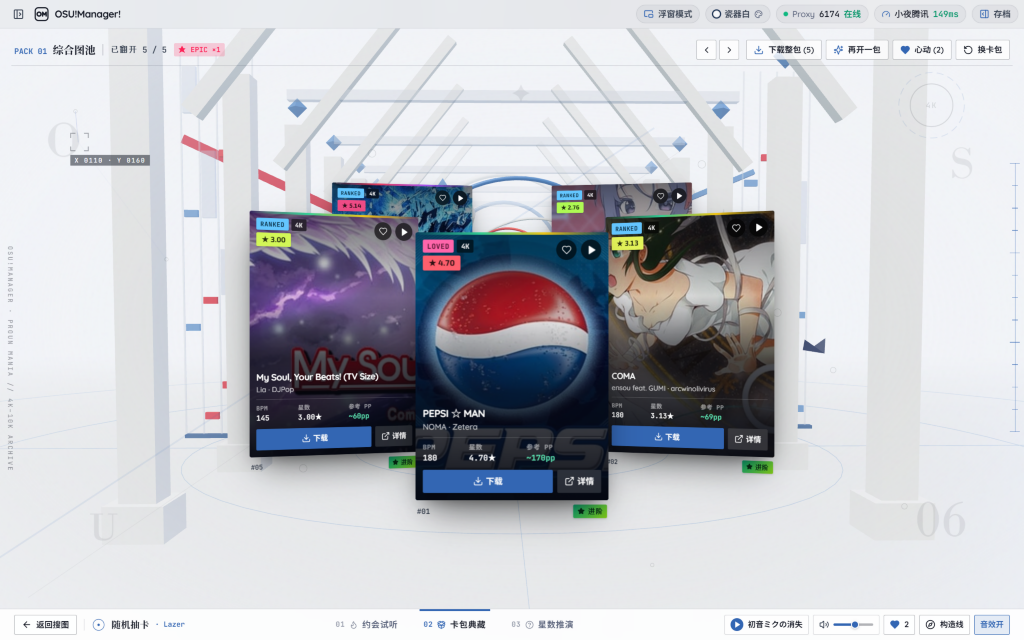
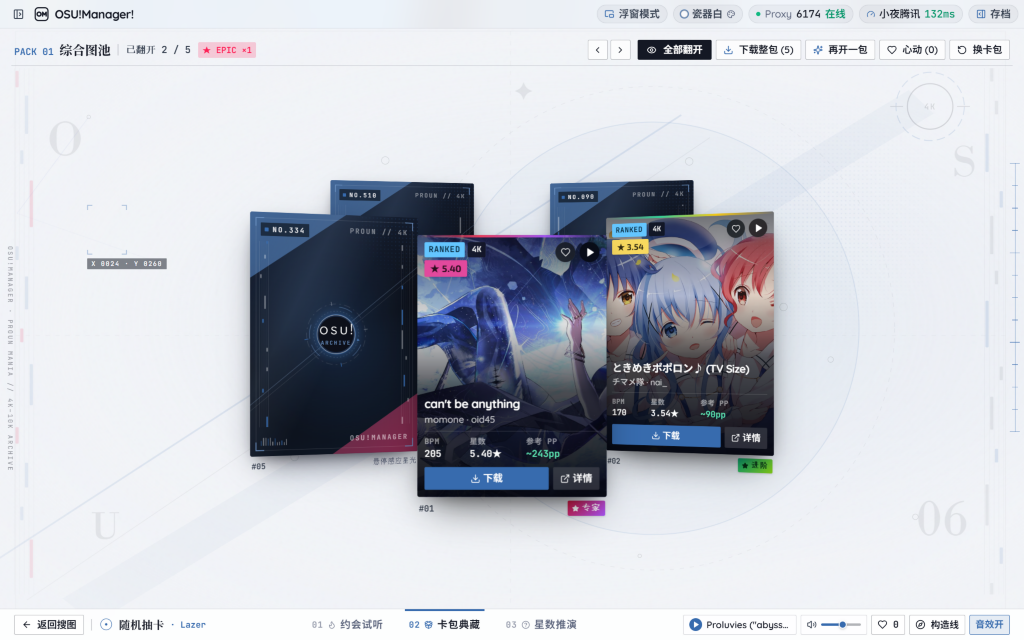
docs: update README, AGENT, CHANGELOG, DEVLOG and v1.16.0 screenshots

diff --git a/README.md b/README.md
@@ -98,18 +98,18 @@
     <td width="50%" align="center" valign="top">
       <a href="docs/screenshots/10-gacha-pack.png"><img src="docs/screenshots/10-gacha-pack.png" alt="Random Card Draw — 3D Circular Ring Pack Opening Mode" width="100%" /></a>
       <br />
-      <strong>10 · 随机抽卡 · 02 卡包典藏（PROUN 构成主义圣堂 + 4K 音符下落 + 3D 圆环）</strong>
+      <strong>10 · 随机抽卡 · 02 卡包典藏（纯 2D PROUN 平面构成 + 4K 下落轨道 + 高清 3D 圆环）</strong>
       <br />
-      <sub>PROUN × osu!mania 4K sanctum, numbered pools (<code>01–07</code>), 3D card ring &amp; hover star glows</sub>
+      <sub>Pure 2D PROUN × osu!mania 4K poster stage (zero WebGL), HD covers &amp; Constructivist kinetic backs</sub>
     </td>
   </tr>
   <tr>
     <td width="50%" align="center" valign="top">
       <a href="docs/screenshots/11-gacha-dating.png"><img src="docs/screenshots/11-gacha-dating.png" alt="Random Card Draw — Default Dating Swipe Mode with Right-Fanned Preview Stack" width="100%" /></a>
       <br />
-      <strong>11 · 随机抽卡 · 01 约会试听（默认模式 · 多分组目标归档与放大卡牌）</strong>
+      <strong>11 · 随机抽卡 · 01 约会试听（默认模式 · 高清原画大图与多分组目标归档）</strong>
       <br />
-      <sub>Default tab, enlarged cards fanned right, direct swipe-to-group targeting &amp; multi-group Liked drawer</sub>
+      <sub>Default tab, HD fullsize artwork fanned right, direct group swipe targeting &amp; Constructivist foil backs</sub>
     </td>
     <td width="50%" align="center" valign="top">
       <a href="docs/screenshots/12-gacha-guess.png"><img src="docs/screenshots/12-gacha-guess.png" alt="Random Card Draw — Obsidian Dark English Guess SR Mode with NM/HT/DT and MA Ratio" width="100%" /></a>
@@ -123,16 +123,16 @@
     <td width="50%" align="center" valign="top">
       <a href="docs/screenshots/13-gacha-altar.png"><img src="docs/screenshots/13-gacha-altar.png" alt="Random Card Draw — Unified Global-Theme Collector Sleeve and Collapsible Pack Dossier" width="100%" /></a>
       <br />
-      <strong>13 · 随机抽卡 · 包豪斯斜切收藏卡包（独立 07 条件自选池弹窗 + 后台秒开预取）</strong>
+      <strong>13 · 随机抽卡 · 炉石风拖拽开包桌台与唤醒祭坛（物理握持惯性 + 磁吸高亮）</strong>
       <br />
-      <sub>Bauhaus diagonal-slash theme-synced pack sleeve, editable Pool <code>07</code> filters &amp; background prefetch</sub>
+      <sub>Hearthstone-style left reserve pack stack &amp; magnetically awakening Opening Altar drop well</sub>
     </td>
     <td width="50%" align="center" valign="top">
       <a href="docs/screenshots/14-gacha-inspector.png"><img src="docs/screenshots/14-gacha-inspector.png" alt="Random Card Draw — 360° 3D Collector Slab Inspector Modal" width="100%" /></a>
       <br />
-      <strong>14 · 随机抽卡 · 360° 3D 立体检视（14px PROUN 铭文金属脊 + 主题同调星空卡背）</strong>
+      <strong>14 · 随机抽卡 · 360° 3D 立体检视（20px 矢量金属铭文脊 + 真 3D Z 轴变焦 + 动态卡背）</strong>
       <br />
-      <sub>360° drag/zoom slab inspector, <code>14px</code> PROUN metallic engraved spine &amp; theme-tinted celestial card back</sub>
+      <sub>360° Z-dolly zoom, crisp <code>20px</code> vector titanium spines, HD <code>fullsize.jpg</code> cover &amp; kinetic back</sub>
     </td>
   </tr>
 </table>
@@ -189,11 +189,12 @@
    - 覆盖搜图选歌、详情/PP 计算器、Mania 预览器、3D Book 档案库、OSU! 音乐台、游戏内浮窗、Electron 系统托盘菜单与后端错误/镜像描述的全量中英双语体验。
    - 可在「设置 → 分区 3」或新手引导右上角切换 `简体中文` / `English`（切换立即预览，点保存持久化至 `config.json`，取消/Esc 自动回滚）；右上角测速状态与提示文案严格跟随用户实际配置的 `proxyPort`（不再固定写死 `6174`）与直连/代理模式动态显示。
 
-10. **随机抽卡工作室（`v1.15.0` — PROUN × osu!mania 圣堂 · 14px 金属铭文脊 · 秒开预取 · 多分组心动曲库）**
-   - 在浏览模式 `Lazer` 按钮右侧提供「随机抽卡」入口，打开后**自动收起主左侧栏与存档栏**；模式切换栏下移至纤细的**底部导航 Dock**，**默认直接进入 `01 约会试听`**（顺序为 `01 约会试听 · 02 卡包典藏 · 03 星数推演`）。所有定格构造转场动画沉底于 `z-[4]` 背景层，不再浮压界面元素。
-   - **PROUN × osu!mania 圣堂舞台与主题同调星图卡背**：Three.js 圣堂舞台融合普劳恩斜向钢梁、悬浮几何圆盘、左右侧 `osu!mania` 4K 下落短键/长条轨道与中央呼吸 Hit Circle / Approach Ring（支持 `B` 键切换构造线框）；派蒙星空卡背采用中性黑炭底色高比例融合全局主题 `--t-osu`，随瓷器白 / 樱雾浅粉 / 松影暗绿等主题呈现深色同调星空质感。
-   - **01 约会试听与多分组持久心动曲库**：放大卡牌并在右侧扇形叠放预报下两张卡片，顶部支持直接切换滑动归属的目标分组（如「默认心动」或自建「高难练习」分组）；全模式收藏持久保存至 `data/gacha-collections.json`，右侧多分组心动抽屉支持**新建、重命名、清空、删除分组、单曲多分组勾选分配与按组一键批量下载**。
-   - **02 卡包典藏、`07 条件自选池` 与 360° 铭文金属脊检视**：精简去除了「开包提示语」等冗余文案，采用包豪斯斜切造型卡包与 `01 综合图池`–`07 条件自选池` 编号体系（含独立「07 条件自选池」弹窗，可同步当前搜图条件或一键导入 Filter 存档）；随视口尺寸等比放大卡包与 3D 圆环阵列并内置工作台后台预取 + 后端并发探针加速秒开；点击已翻开卡牌进入 **360° 3D 立体检视**，配备 **`14px` PROUN 工业铭文金属侧脊**（星级霓虹中缝 + 纵向 `OSU! // ★SR // BPM // #serial` 刻印）、`F` 翻面、`R` 复位与收藏快捷按钮。
+10. **随机抽卡工作室（`v1.16.0` — 纯 2D PROUN 平面构成舞台 · 炉石拖拽开包 · 原画高清封面 · 动态构成主义卡背）**
+   - 在浏览模式 `Lazer` 按钮右侧提供「随机抽卡」入口，打开后**自动收起主左侧栏与存档栏**；模式切换栏下移至纤细的**底部导航 Dock**，**默认直接进入 `01 约会试听`**（顺序为 `01 约会试听 · 02 卡包典藏 · 03 星数推演`）。
+   - **纯 2D PROUN × osu!mania 4K 平面构成背景（零 WebGL 开销）**：以高精度 SVG 构成主义海报几何与远边距双侧 `osu!mania` 4K 动态下落音符带替代 3D 模型渲染，随约会 / 卡包 / 推演三模式与全局主题切换构图（`B` 键切换平面辅助构造线），兼顾视觉锐度与轻量化性能。
+   - **动态构成主义 × osu! 动效卡背（全新替换）**：告别星空样式，采用融合全局主题 `--t-osu` 的深炭金属 Foil 质感卡背，集成包豪斯斜切角、流光扫掠（Specular Foil Sweep）、双侧实时滚动的 `osu!mania` 4K 窄轨音符条以及中央双圈旋动游标尺 + 呼吸缩圈 `osu!` Approach Ring。
+   - **炉石传说风拖拽开包 + 秒开预取 + 高清卡片 & 20px 矢量金属脊**：左侧卡包叠放可按住拖拽并随速度产生 3D 倾斜，拖向右侧「Opening Altar」祭坛时逐级点亮光晕与瞄准锁框，松手磁吸炸开 3D 圆环（拖出松手平滑回弹，亦可点击或拉动顶部虚线封条）；卡片封面通过 `/api/media/cover/:id?hd=1` 代理缓存 `fullsize.jpg` 原画大图，配合 360° 立体检视器的真 3D `translateZ` 推进变焦与 `20px` 高精度 `<svg>` 钛金属雕刻侧脊（含纵向 `OSU! // ★SR // BPM // #serial`），彻底消除放大糊边。
+   - **多分组持久心动曲库与 `07 条件自选池`**：全模式收藏持久保存至 `data/gacha-collections.json`，支持新建/重命名/清空/删除分组、单曲多分组勾选分配、按组批量下载及约会顶部目标组直选；`07 条件自选池` 配备独立弹窗支持自主配池、同步主搜图条件与导入 Filter 存档。
    - **03 星数推演**：移除卡片 `详情` 入口严格防止窥见真实星数，提供 24 种严格基于 `NM (1.0x)` / `HT (0.75x)` / `DT (1.5x)` 倍率与**黄彩比（`MA Ratio`）**/ Miss / `EZ` / `Classic` 组合的情景线索与闪电连击徽标。
 
 ### 快速开始
@@ -270,12 +271,12 @@ No osu! login or session cookie is required. It brings together multi-mirror bea
 - **Full ZH / EN Bilingual Switcher & Dynamic Proxy Diagnostics**
   - Complete Simplified Chinese & English localization across Browse, Beatmap Detail & PP Calculator, Mania Previewer, 3D Book Archive, OSU! AUDIO Music Station, Acrylic Overlay, Electron Tray/Hotkeys, and backend mirror/status responses.
   - Switch live via **Settings → Section 3 (`简体中文 | English`)** or the onboarding header pill (persisted in `config.json`, safely rolls back on Cancel/Esc). Top-bar latency checks and toast notifications dynamically reflect your configured `proxyPort` or `Direct` mode.
-- **Random Card Draw Studio (`v1.15.0` — PROUN × osu!mania Sanctum, 14px Metallic Spine, Fast Prefetch & Grouped Likes)**
+- **Random Card Draw Studio (`v1.16.0` — Pure 2D PROUN Graphic Stage, Hearthstone Drag-to-Altar, HD Covers & Kinetic Backs)**
   - Accessible beside the `Lazer` view button in Browse mode; **automatically collapses both sidebars** on launch and exclusively draws non-local beatmapsets through clean numbered card pools (`01 All-Pool Mix` – `07 Custom Filter Pool`) and tier labels (`Standard` – `Apex 8★+`).
-  - **PROUN × osu!mania 4K Sanctum & Theme-Synced Card Back**: The open Three.js backdrop blends Constructivist diagonal girders and floating discs with flanking `osu!mania` 4K falling short/LN pillars and a breathing central Hit Circle + Approach Ring (`B` key toggles blueprint wireframe). The Paimon starfield card back mixes neutral charcoal with `--t-osu` so themes like Sakura pink and Forest emerald tint the deep starry cloak organically.
-  - **01 Dating Swipe & Persistent Multi-Group Collections**: Enlarged right-fanned card deck with instant audio playback and a direct header target-group selector for swiped likes. Favorites persist server-side in `data/gacha-collections.json` with a collapsible **Multi-Group Liked Drawer** supporting group create/rename/clear/delete, per-song group assignment checkboxes, and one-click group batch download.
-  - **02 Pack Opening, Custom Pool `07` Modal & 360° Metallic Spine**: Features enlarged viewport-adaptive Bauhaus diagonal-slash pack sleeves and 3D circular rings with redundant helper hints removed, Studio-level Pool `01` pre-warming plus parallel backend fallback probes for rapid opening, and an independent **Pool `07` Custom Filter Modal** (with Browse filter sync & Filter Archive import). Clicking any revealed card opens the **360° 3D Slab Inspector** sporting **`14px` brushed PROUN metallic side spines** with engraved `OSU! // ★SR // BPM // #serial` edges, star-rarity seam glow, `F` flip, `R` reset, and favorite toggle.
-  - **03 Guess SR**: Keeps `Details` locked so stars stay hidden, serves 24 scenarios strictly using **`NM (1.0x)` / `HT (0.75x)` / `DT (1.5x)`** rates with **MA Ratio**, misses, and mod clues, plus a crisp Zap streak counter on the open Three.js canvas.
+  - **Zero-WebGL 2D Flat PROUN × osu!mania Stage**: Replaces Three.js 3D meshes with a crisp flat vector editorial backdrop plus far-margin 2D `osu!mania` 4K scrolling rhythm lanes (adapting per tab and `B` blueprint mode) for sharper lines and minimal GPU overhead.
+  - **Dynamic Constructivist × osu! Kinetic Card Back**: Replaces starry backdrops with a theme-infused (`--t-osu`) dark foil plate featuring Bauhaus diagonal cuts, drifting metallic sheen, twin live-scrolling 4K margin strips, counter-rotating vernier calipers, and a rhythmic contracting `osu!` Approach Ring.
+  - **Hearthstone Draggable Pack Table, HD Artwork & 20px Vector Spines**: Grab booster packs from a physical left reserve stack with velocity-driven 3D banking and drop them into a magnetically awakening right **Opening Altar** (outside drops smoothly spring back; tear seam drag & direct clicks remain supported). Cards fetch full-res `fullsize.jpg` covers via `/api/media/cover/:id?hd=1`, while the **360° Inspector** switches to true-3D `translateZ` zoom and razor-sharp **`20px` vector `<svg>` engraved titanium spines** (`OSU! // ★SR // BPM // #serial`), alongside `data/gacha-collections.json` multi-group favorites & the Pool `07` Custom Filter Modal.
+  - **03 Guess SR**: Keeps `Details` locked so stars stay hidden, serves 24 scenarios strictly using **`NM (1.0x)` / `HT (0.75x)` / `DT (1.5x)`** rates with **MA Ratio**, misses, and mod clues, plus a crisp Zap streak counter on the open 2D graphic canvas.
 
 ### Quick Start
 

diff --git a/AGENT.md b/AGENT.md
@@ -60,7 +60,7 @@
 | `server/library.ts` | Stable `Songs` 扫描、Lazer `client.realm`/`online.db`/`files` 哈希扫描缓存、进程检测（含 `stableExeExists` / `lazerExeExists`）、双端差异比对 |
 | `server/realmReader.ts` | 零原生依赖只读 Realm v24 (`T-DB`) 二进制解析器（带文件锁临时拷贝回退），读取 Lazer `client.realm` 谱面、难度、元数据、文件映射与游玩成绩 |
 | `server/localLibrary.ts` | 双端本地曲库与成绩聚合器（融合 `osu!.db` / `Songs/` / `scores.db` 与 `client.realm` / `files/`），提供成绩去重、Mania PP 估算、延迟 `.osu` 背景提取与 SVG 回退、`.osu` 红线/Kiai/密度节奏解析及音频流输出 |
-| `server/media.ts` | 封面图与 MP3 音频试听代理 + 本地磁盘 LRU 裁剪缓存 |
+| `server/media.ts` | 封面图（支持 `?hd=1` 原画级 `fullsize.jpg` 优先拉取与独立 `cache/covers-hd/` 磁盘 LRU 缓存）与 MP3 音频试听代理 |
 | `server/preview.ts` | Mania `.osu` 解析（红线 BPM + 绿线 SV + Barline + NPS 密度）、本地/ZIP/`cache/osz` 音源查找、`206 Range` 音频流与背景图输出 |
 | `server/skins.ts` | 扫描 `D:\OSU\Skins` 与 `osu!.<user>.cfg` 激活皮肤、解析 `[Mania]` `skin.ini`、内置 3 套皮肤、PerCy 超长 LN PNG 无损前 2048 行扫描线裁切 (`cropPngTopRows`) |
 
@@ -130,17 +130,16 @@
 | `src/components/OnboardingModal.tsx` | 首次安装 6 步交互式环境配置与新手引导向导（右上角含 `中文 / EN` 快速切换、调用 `/api/config/detect-env` 探测多盘符客户端路径与本机代理端口，支持代理模式/端口预设、下载策略、实时主题/字号预览、配置摘要保存及防输入框箭头误触） |
 | `src/components/SelectField.tsx` | 统一下拉封装（支持 `<optgroup>` 嵌套匹配，解决 Chromium 原生箭头重叠问题） |
 | `src/components/gacha/gachaSketch.ts` | 参考 `Funkierry/the-masses-travels` 移植的确定性手绘 SVG 几何原语（过头抖动星环 `ring`、拱曲延展标尺 `rule`、毛笔 `brush`、光刃 `blade`、裁切角 `crops` 与星座连接） |
-| `src/components/gacha/GachaSanctumWorld.ts` | Three.js PROUN × `osu!mania` 圣堂建筑舞台控制器（响应全局 `--t-canvas` / `--t-osu` 动态换色、普劳恩斜向钢梁与悬浮圆盘、对称左右侧 4K 下落短键/长条音符列、中央呼吸 Hit Circle 与 Approach Ring、`Blueprint` 线框与炸裂脉冲） |
-| `src/components/gacha/GachaAtmosphere.tsx` | 全屏氛围层（Three.js 挂载、全局主题色同步、斜向构图法则线与右上角 `4K` 圆环水印、指针连线点阵、左侧竖排注记与右侧标尺、脱离目标即时复位且避开底栏的 Reticle 准星、`z-[4]` 底层定格构造脉冲与 `<ScrambleText>` 解码） |
-| `src/components/gacha/GachaPackPlate.tsx` | 包豪斯斜切构成主义卡包封套视差手绘图版（深红斜梁、4K 双侧虚线轨、全球统一 `--ga-cobalt` / `--ga-ink` 主题变色圆盘与 `POOL 01–07` 编号印记） |
+| `src/components/gacha/GachaAtmosphere.tsx` | 全屏纯 2D 平面构成氛围层（零 WebGL：SVG 构成主义海报几何、分模式构图与 far-margin `osu!mania` 4K 下落轨道、`B` 键平面辅助构造线、2D Canvas 连线点阵、左侧竖排注记与右侧标尺、Reticle 准星、`z-[4]` 底层定格脉冲与 `<ScrambleText>`） |
+| `src/components/gacha/GachaPackPlate.tsx` | 炉石开包祭坛 Drop Well 多层平面手绘图版（居中注册环与虚线卡包落点框，随卡包拖近动态提升光晕半径/缩放与高亮瞄准框） |
 | `src/components/gacha/GachaStudio.tsx` | 随机抽卡工作室总控界面（纤细底部导航栏 `01 约会试听 / 02 卡包典藏 / 03 星数推演`、默认 `dating`、后台预温 Pool `01` 缓存池、`data/gacha-collections.json` 多分组收藏状态调度、Pool `07` 自选规则状态、`B` 构造线热键与猜星详情隔离） |
-| `src/components/gacha/GachaPackMode.tsx` | 卡包典藏模式（去除冗余辅助文案、按容器宽高自适配放大的包豪斯斜切卡包与 `1–20` 张 3D 椭圆圆环舞台、卡池 `01–07` 选择与独立 Pool `07` 规则编辑入口、复用工作室预取与并发态接入实现秒开及 360° 检视） |
-| `src/components/gacha/GachaCardInspectorModal.tsx` | Portal 挂载至 `document.body` (`z-[48]`) 的 360° 3D 立体卡片检视弹窗（`data-dark="true"` 独立暗色画廊背板、放大卡身、鼠标惯性 360° yaw/pitch 拖拽、滚轮缩放、`14px` PROUN 工业拉丝金属脊与纵向 `OSU! // ★SR // BPM // #serial` 刻印及星级中缝霓虹、收藏红心、`F` 翻转、`R` 复位、`←/→` 切卡） |
+| `src/components/gacha/GachaPackMode.tsx` | 卡包典藏模式（炉石风左侧储备卡包叠放 + 物理速度倾角拖拽投入右侧「Opening Altar」磁吸开包与拖出平滑回弹、支持虚线封条或点击开启、`01–07` 卡池选择与独立 Pool `07` 弹窗、Studio 预取秒开及 `<=1.0` 缩放高清 3D 圆环） |
+| `src/components/gacha/GachaCardInspectorModal.tsx` | Portal 挂载至 `document.body` (`z-[48]`) 的 360° 3D 立体卡片检视弹窗（真 3D `translateZ` 推进变焦无糊边、鼠标惯性 360° 旋转、`20px` 高精度矢量 `<svg>` 钛金属雕刻侧脊与 `OSU! // ★SR // BPM // #serial` 铭文、收藏红心、`F` 翻转至动态构成主义卡背、`R` 复位、`←/→` 切卡） |
 | `src/components/gacha/GachaDatingMode.tsx` | 约会试听模式（默认模式：通透无遮罩舞台、放大卡牌尺寸、右侧下方扇形叠放预告下两张卡片、顶部滑动目标分组选择器与切卡自动试听） |
-| `src/components/gacha/GachaCustomFilterModal.tsx` | **新增**：Portal 弹窗形式 `POOL 07`「条件自选池」独立筛选配置面板（支持关键词/Keys/状态/SR/BPM/LN%/时长编辑，以及一键同步主搜图条件或导入 Filter 存档） |
-| `src/components/gacha/GachaLikedDrawer.tsx` | **新增**：默认收起的右侧多分组持久化「心动曲库」抽屉（支持新建、内联重命名、清空、安全删除分组、单曲多分组勾选分配、切换滑动目标组与按组一键批量下载） |
-| `src/components/gacha/BeatmapGachaCard.tsx` | 无边框 `3px` 收藏级 3D 正反谱面卡（悬停卡背星光光晕与裁切角、翻牌粒子+光刃特效、右下角全局收藏红心按钮、`--ga-cobalt`/`--t-osu` 统一主按钮色与可选 `onInspect` 360° 检视） |
-| `src/components/gacha/PaimonStarfieldBack.tsx` | 派蒙星空斗篷卡背（纯中性暗炭底高比例 `color-mix` 融合全局 `--t-osu` 与纯 CSS 中央星辉光晕，叠加 `gachaSketch` 双重套印手绘星盘与极简细体 `osu! / 4K // ARCHIVE` 标识） |
+| `src/components/gacha/GachaCustomFilterModal.tsx` | Portal 弹窗形式 `POOL 07`「条件自选池」独立筛选配置面板（支持关键词/Keys/状态/SR/BPM/LN%/时长编辑，以及一键同步主搜图条件或导入 Filter 存档） |
+| `src/components/gacha/GachaLikedDrawer.tsx` | 默认收起的右侧多分组持久化「心动曲库」抽屉（支持新建、内联重命名、清空、安全删除分组、单曲多分组勾选分配、切换滑动目标组与按组一键批量下载） |
+| `src/components/gacha/BeatmapGachaCard.tsx` | 无边框 `3px` 收藏级 3D 正反谱面卡（默认请求 `?hd=1` 原画高清封面含失败自动回退、正反面 `translateZ(1px)` 防 Chromium 剔除错乱、翻牌粒子+光刃、全局收藏红心与可选 `onInspect` 360° 检视） |
+| `src/components/gacha/GachaCardBack.tsx` | **新增**：动态 Swiss / 构成主义 × `osu!` 动效卡背（全局 `--t-osu` 同色系暗炭 Foil 底、包豪斯斜切色块、斜向高光扫掠、双侧实时滚动 4K 窄轨音符条与中央双旋游标环 + 节奏缩圈 `osu!` Approach Ring） |
 | `src/components/gacha/gachaUtils.ts` | 去中二构图番号卡池配置（`01 综合图池`–`07 条件自选池`，含 `GachaPackSigil` 徽记与主题统一映射）、简明等级名（标准/进阶/专家/大师/巅峰）、24 种严格 `NM/HT/DT` + 黄彩比猜星情景与评分公式 |
 | `src/components/gacha/gachaSound.ts` | Web Audio API 合成开包撕裂、悬停律动、分阶翻牌爆裂、滑卡与猜星揭晓音效 |
 

diff --git a/docs/DEVLOG.md b/docs/DEVLOG.md
@@ -4,6 +4,30 @@
 
 ---
 
+## Session 26 — 纯 2D PROUN 平面舞台、炉石风拖拽开包、?hd=1 原画高清封面、20px 矢量金属脊与全新动效卡背 (`v1.16.0`)
+
+- **日期**：2026-11-26
+- **对话 ID**：`09e49c4e-3701-4043-82c7-d9fba139a0f4`
+- **功能代码提交**：`964a5ba`
+
+### 需求与关键改造 (4 项体验与画质全面升级)
+1. **去除 3D 建模改用纯 2D 平面构成背景 (#1)**：删除 `src/components/gacha/GachaSanctumWorld.ts`，重写 `GachaAtmosphere.tsx` 为零 WebGL 的纯 2D SVG 构成主义 × `osu!mania` 4K 海报舞台 + 轻量 2D 点阵画布与定格脉冲，兼顾锐利平面视觉与极低 GPU 开销。
+2. **炉石传说风拖拽开包桌台 (#2)**：重构 `GachaPackMode.tsx` 与 `GachaPackPlate.tsx`，将密封舞台拆分为左侧物理储备卡包叠放与右侧「Opening Altar」唤醒祭坛；卡包拖拽按指针速度产生 `rotateX/rotateY` 立体倾角并触发 `data-drop-active="true"` 磁吸锁框，拖入松手即刻吸附开启、拖出松手平滑回弹，并保留虚线撕拉与单击兼容。
+3. **高清封面、真 3D 推进变焦与 20px 矢量金属脊 (#3)**：新增 `/api/media/cover/:id?hd=1` 优先拉取 `fullsize.jpg` 原画并独立缓存于 `cache/covers-hd/`；`GachaCardInspectorModal.tsx` 将缩放改为 `translateZ` 真 3D 推近及固定纵横比 `20px` 矢量 `<svg>` 钛金属雕刻侧脊；浏览器视觉复测同时捕捉并修复了 Chromium 3D 卡片翻转时的 Z 轴共面剔除 Bug（为 `.gacha-card-face-front/back` 增加 `translateZ(1px)` 分层与 `z-index` 切换，移除干扰 `will-change` 与 `decoding="async"`）。
+4. **全新动态构成主义 × osu! 卡背 (#4)**：移除 `PaimonStarfieldBack.tsx`，新建 `GachaCardBack.tsx` 与配套纯 GPU 关键帧（包豪斯斜切 Foil、双侧实时 4K 下落轨道、双旋游标尺与缩圈 `osu!` Approach Ring）。
+
+### 关键变更文件
+- **版本与后端媒体代理**：`package.json` (`1.16.0`)、`src/constants.ts`、`server/media.ts`、`server/index.ts`
+- **前端 Gacha 视觉与交互组件**：`src/components/gacha/{GachaAtmosphere.tsx,GachaCardBack.tsx(新增),GachaPackPlate.tsx,GachaPackMode.tsx,BeatmapGachaCard.tsx,GachaCardInspectorModal.tsx}`、`src/index.css`；删除 `GachaSanctumWorld.ts`、`PaimonStarfieldBack.tsx`
+- **文档与截图**：`README.md`、`AGENT.md`、`CHANGELOG.md`、`docs/DEVLOG.md`、`docs/screenshots/10–14*.png`
+
+### 验证结果
+- **静态构建**：`npm run typecheck` 与 `npm run build` 均以 exit code `0` 通过；`src` 下零残留 `GachaSanctumWorld` / `PaimonStarfieldBack` 引用。
+- **浏览器全链路与复测 (`:3728`, `1440×900` / `1280×720`)**：确认 `.gacha-atelier canvas` 仅 `1` 个（零 WebGL）；实测 `1011011?hd=1` 返回 `200 / 48,132B`（对比普通缩略图 `21,017B`），实拍卡背在多主题下动态翻转正常、炉石拖拽未入坛回弹 & 入坛磁吸 (`data-drop-active="true"`) 开包、5 卡圆环正反面同屏与 `YAW 067° / 174°` 360° 检视无模糊无裁切；`1280×720` 下无横向溢出，控制台 / WebGL / HTTP `>=400` 报错均为 `0`。
+- **本地打包与冒烟**：`npm run electron:pack` 生成 `release\win-unpacked\osu-manager.exe`（`FileVersion=1.16.0`），隔离 `:3729` 冒烟验证 `/api/health`、`GET /`、`/api/gacha/collections`、`GET /api/media/cover/1011011?hd=1` (`48132B`) 与 `POST /api/gacha/draw` (`5` 张) 均通过，清理后监听端口为 `0` 且 `data/config.json` 保持 `898` 字节未改动。
+
+---
+
 ## Session 25 — PROUN 圣堂、主题星图卡背、14px 金属脊、秒开预取、自选池弹窗与多分组持久心动曲库 (`v1.15.0`)
 
 - **日期**：2026-11-26

diff --git a/CHANGELOG.md b/CHANGELOG.md
@@ -4,6 +4,19 @@ All notable changes to **OSU!Manager! (`osu-4k-dual-downloader`)** will be docum
 
 The format is based on [Keep a Changelog](https://keepachangelog.com/en/1.1.0/).
 
+## [1.16.0] - 2026-11-26
+
+### Added & Changed
+- **纯 2D 平面构成 PROUN × osu! 舞台（#1 · 告别简陋 3D 模型）**：
+  - 移除 `GachaSanctumWorld.ts` Three.js 3D 网格渲染，重构 `GachaAtmosphere.tsx` 为零 WebGL 的轻量高精度 2D 矢量海报背景 + 远边距 `osu!mania` 4K 音符轨道，按 `dating` / `pack` / `guess` 模式切换构成主义几何构图并支持 `B` 键显示平面辅助构造线。
+- **炉石传说风物理拖拽开包与唤醒祭坛（#2）**：
+  - `GachaPackMode.tsx` 与 `GachaPackPlate.tsx` 引入「左侧储备卡包叠放 + 右侧 Opening Altar」双区桌台，支持按住卡包带着速度三维倾角拖向祭坛、祭坛磁吸点亮与锁定框反馈、松手炸开 3D 圆环（未落入祭坛松手则平滑回弹），并继续兼容虚线封条横拉与直接点击开启。
+- **原画级高清封面与 20px 矢量金属脊（#3）**：
+  - `server/media.ts` 与 `server/index.ts` 新增 `/api/media/cover/:id?hd=1` 通道与独立 `cache/covers-hd/` 缓存，优先代理拉取 `assets.ppy.sh/.../covers/fullsize.jpg` (`1366×768`) 供所有抽卡卡片使用；
+  - `GachaCardInspectorModal.tsx` 改用真 3D `translateZ` 推进变焦消除位图模糊，并将侧边升级为 `20px` 高精度矢量 `<svg>` 钛金属雕刻侧脊；`GachaPackMode` 圆环最大缩放限制为 `<= 1.0`，同时在 `index.css` 为 `.gacha-card-face-*` 补充 `translateZ(1px)` 与 `z-index` 隔离，消除 Chromium 翻转剔除错乱。
+- **全新动态构成主义 × osu! 动效卡背（#4）**：
+  - 以全新 `GachaCardBack.tsx` 替换并移除 `PaimonStarfieldBack.tsx`，采用深炭金属 Foil 质感融合全局 `--t-osu`、包豪斯斜切色块、斜向流光扫掠、双侧实时滚动 `osu!mania` 4K 音符条及中央双旋游标尺 + 节奏缩圈 `osu!` Approach Ring。
+
 ## [1.15.0] - 2026-11-26
 
 ### Added & Changed
